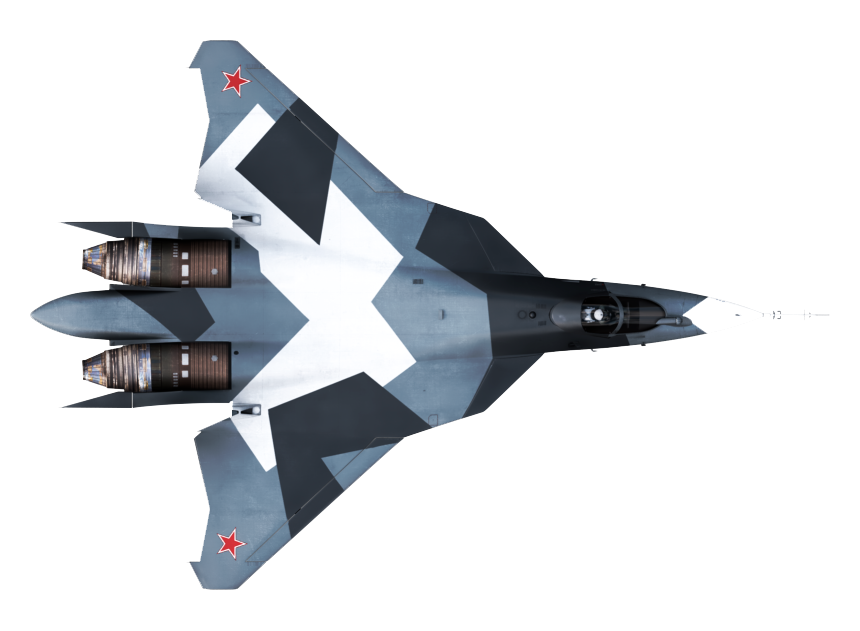
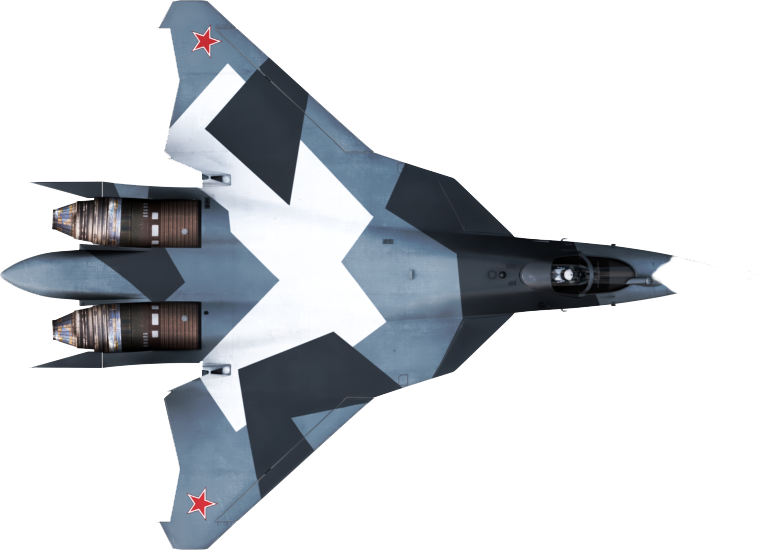
Vehicle scale (#7)
* make vehicle scale, still a lot of stuff todo

* make turrets, need to refactor turrets

Changed region(s): [[0.0, 0.0, 0.9091, 1.0], [0.3333, 0.4636, 0.3636, 0.5564], [0.303, 0.4327, 0.3333, 0.4636]]

diff --git a/View/view.cpp b/View/view.cpp
@@ -10,41 +10,48 @@ void View::Update(QPainter* painter) {
   QPainter buffer_painter;
   buffer_painter.begin(&buffer);
 
-  QPoint center = QPoint(buffer.width() / 2, buffer.height() / 2);
+  Vec2f center = Vec2f((double)buffer.width() / 2, (double)buffer.height() / 2);
   if(Player::Instance()->GetVehicle() == nullptr) {
     return;
   }
   Vec2f player_vehicle_pos = Player::Instance()->GetVehicle()->GetPosition();
-  QPoint central_vehicle_position = QPoint(player_vehicle_pos.GetX(), player_vehicle_pos.GetY());
 
   // temporary code, need to draw map instead
   buffer_painter.fillRect(0, 0, painter->window().width(), painter->window().height(), Qt::white);
   for (auto game_object: game_objects) {
 
-    int pos_x = (game_object->GetPosition().GetX() - central_vehicle_position.x())*scale_;
-    int pos_y = (game_object->GetPosition().GetY() - central_vehicle_position.y())*scale_;
+    double pos_x = game_object->GetPosition().GetX()*scale_ - player_vehicle_pos.GetX()*scale_;
+    double pos_y = game_object->GetPosition().GetY()*scale_ - player_vehicle_pos.GetY()*scale_;
     buffer_painter.save();
     buffer_painter.scale(scale_, scale_);
-    buffer_painter.translate((QPoint(pos_x, pos_y) + center)/scale_);
+    buffer_painter.translate((pos_x + center.GetX())/scale_, (pos_y + center.GetY())/scale_);
     buffer_painter.rotate(game_object->GetOrientation().GetAngleDegrees());
 
     QPixmap pixmap = game_object->GetPixmap();
     int pix_width = pixmap.width();
     int pix_height = pixmap.height();
+    double scale_coef = pixmap.width() / (game_object->GetLength());
+    buffer_painter.scale(1.0/scale_coef, 1.0/scale_coef);
     buffer_painter.drawPixmap(-pix_width / 2, -pix_height / 2, pixmap);
-
+    buffer_painter.scale(scale_coef, scale_coef);
     auto* tank = dynamic_cast<Tank*>(game_object);
     buffer_painter.rotate(-game_object->GetOrientation().GetAngleDegrees());
     QPixmap turret = PixmapLoader::Instance()->turret;
     if (tank) {
       buffer_painter.rotate(tank->GetTurretOrientation().GetAngleDegrees());
+      scale_coef = pixmap.width() / (8.0);
+      buffer_painter.scale(1.0/scale_coef, 1.0/scale_coef);
       buffer_painter.drawPixmap(-turret.width() / 2, -turret.height() / 2, turret);
+      buffer_painter.scale(scale_coef, scale_coef);
       buffer_painter.rotate(-tank->GetTurretOrientation().GetAngleDegrees());
     }
     auto* ship = dynamic_cast<Ship*>(game_object);
     if (ship) {
       buffer_painter.rotate(ship->GetTurretOrientation().GetAngleDegrees());
+      scale_coef = pixmap.width() / (20.0);
+      buffer_painter.scale(1.0/scale_coef, 1.0/scale_coef);
       buffer_painter.drawPixmap(-turret.width() / 2, -turret.height() / 2, turret);
+      buffer_painter.scale(scale_coef, scale_coef);
       buffer_painter.rotate(-ship->GetTurretOrientation().GetAngleDegrees());
     }
     buffer_painter.restore();
@@ -54,10 +61,12 @@ void View::Update(QPainter* painter) {
 }
 
 void View::Zoom(int steps_number) {
-  scale_ += steps_number * scale_step_;
-  if (scale_ > max_scale_) {
-    scale_ = max_scale_;
-  } else if (scale_ < min_scale_) {
-    scale_ = min_scale_;
+  double inc = steps_number * kScaleStep;
+  inc *= scale_ / kMaxScale;
+  scale_ += inc;
+  if (scale_ > kMaxScale) {
+    scale_ = kMaxScale;
+  } else if (scale_ < kMinScale) {
+    scale_ = kMinScale;
   }
 }

diff --git a/Model/model.cpp b/Model/model.cpp
@@ -3,8 +3,8 @@
 
 Model::Model(int, int) : weapon_handler_(&vehicles_, &bullets_),
                                       tank_(Vec2f(100, 100), Vec2f(1, 0)),
-                                      plane_(Vec2f(100, 400), Vec2f(1, 0)),
-                                      ship_(Vec2f(100, 700), Vec2f(1, 0)) {
+                                      plane_(Vec2f(100, 200), Vec2f(1, 0)),
+                                      ship_(Vec2f(100, 300), Vec2f(1, 0)) {
   tanks_.push_back(&tank_);
   planes_.push_back(&plane_);
   ships_.push_back(&ship_);

diff --git a/View/view.h b/View/view.h
@@ -6,9 +6,9 @@
 
 class View {
  public:
-  static constexpr double scale_step_ = 0.1;
-  static constexpr double max_scale_ = 1.5;
-  static constexpr double min_scale_ = 0.1;
+  static constexpr double kScaleStep = 5;
+  static constexpr double kMaxScale = 62.5;
+  static constexpr double kMinScale = 1;
 
  public:
   explicit View(Model* model);

diff --git a/GameObjects/game_object.h b/GameObjects/game_object.h
@@ -11,10 +11,12 @@ class GameObject : public QObject {
   virtual Vec2f GetPosition() const;
   virtual Vec2f GetOrientation() const;
   virtual QPixmap GetPixmap() const = 0;
+  virtual double GetLength() const = 0;
 
  protected:
   Vec2f position_;
   Vec2f orientation_;
+  double length_; // m
 };
 
 

diff --git a/GameObjects/ship.h b/GameObjects/ship.h
@@ -16,6 +16,7 @@ class Ship : public Vehicle {
   void Update(int millis) override;
   Vec2f GetTurretOrientation();
   QPixmap GetPixmap() const override;
+  double GetLength() const override;
 
  private:
   static constexpr double kHullAngularRotatingSpeed = 10.0 / 360 * 2 * M_PI; // rad/s

diff --git a/GameObjects/tank.h b/GameObjects/tank.h
@@ -16,6 +16,7 @@ class Tank : public Vehicle {
   void Update(int millis) override;
   Vec2f GetTurretOrientation();
   QPixmap GetPixmap() const override;
+  double GetLength() const override;
 
  private:
   static constexpr double kHullAngularRotatingSpeed = 40.0 / 360 * 2 * M_PI; // rad/s

diff --git a/GameObjects/plane.h b/GameObjects/plane.h
@@ -14,6 +14,7 @@ class Plane : public Vehicle {
 
   void Update(int millis) override;
   QPixmap GetPixmap() const override;
+  double GetLength() const override;
 
  private:
   static constexpr double kAngularRotatingSpeed = 50.0 / 360 * 2 * M_PI; // rad/s

diff --git a/GameObjects/vehicle.h b/GameObjects/vehicle.h
@@ -14,6 +14,7 @@ class Vehicle : public GameObject {
   bool IsAlive() const;
   void TakeDamage(double damage);
   QPixmap GetPixmap() const override = 0;
+  double GetLength() const override = 0;
 
  public:
   void keyPressEvent(QKeyEvent* event);

diff --git a/GameObjects/bullet.h b/GameObjects/bullet.h
@@ -12,6 +12,8 @@ class Bullet : public GameObject {
   void Update(int millis) override;
   QPixmap GetPixmap() const override;
   double GetDamage() const;
+  double GetLength() const override;
+
  private:
   double speed_;
   double damage_;

diff --git a/GameObjects/ship.cpp b/GameObjects/ship.cpp
@@ -72,3 +72,7 @@ void Ship::Update(int millis) {
 Vec2f Ship::GetTurretOrientation() {
   return turret_orientation_;
 }
+
+double Ship::GetLength() const {
+  return 200;
+}

diff --git a/GameObjects/tank.cpp b/GameObjects/tank.cpp
@@ -83,3 +83,7 @@ void Tank::Update(int millis) {
 Vec2f Tank::GetTurretOrientation() {
   return turret_orientation_;
 }
+
+double Tank::GetLength() const {
+  return 7.9;
+}

diff --git a/GameObjects/bullet.cpp b/GameObjects/bullet.cpp
@@ -16,3 +16,7 @@ QPixmap Bullet::GetPixmap() const {
 double Bullet::GetDamage() const {
   return damage_;
 }
+
+double Bullet::GetLength() const {
+  return 0.5;
+}
